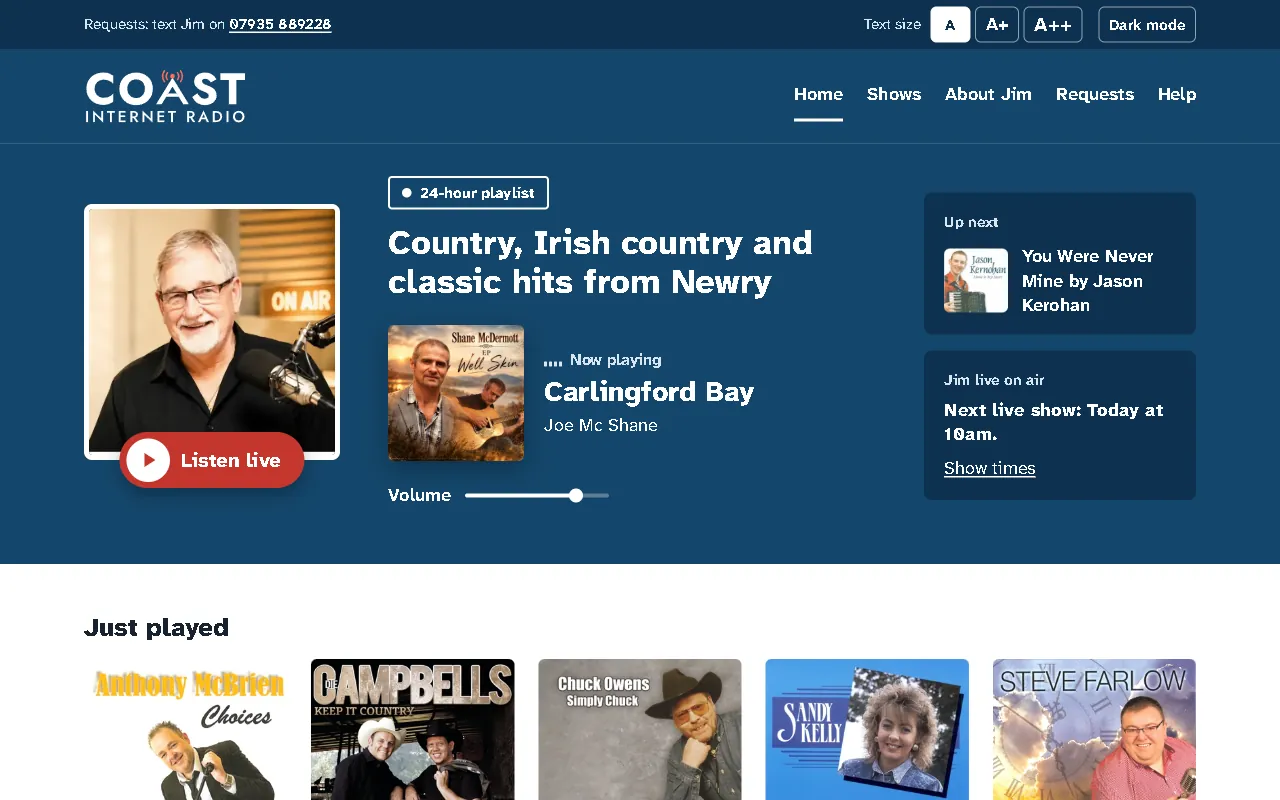
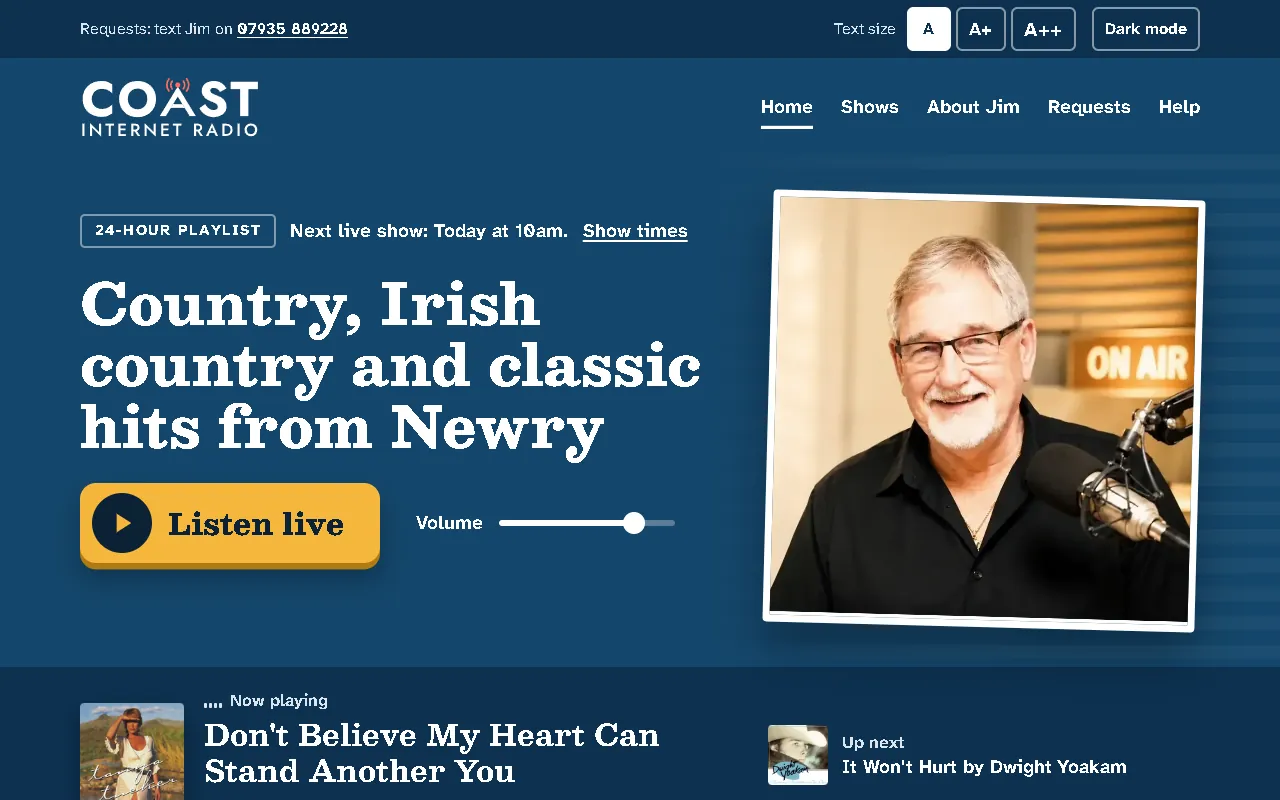
Update the Coast case study for the redesigned site

diff --git a/content/projects/coast-internet-radio.md b/content/projects/coast-internet-radio.md
@@ -9,11 +9,11 @@ links:
   - { label: "Website code", url: "https://github.com/JamieP-205/coast-radio" }
   - { label: "Coast Requests code", url: "https://github.com/JamieP-205/coast-requests" }
 image: "/uploads/projects/coast-home.webp"
-imageAlt: "The Coast Internet Radio homepage, with a Listen live button and the song playing now with its album cover"
+imageAlt: "The Coast Internet Radio homepage: a large Listen live button beside a photo of the presenter at the microphone, with the song playing now and its album cover underneath"
 proof:
   - "Live at coastinternetradio.com, with a request board the presenter uses on air"
   - "Signed webhooks, CSRF tokens and a Content-Security-Policy on the request board"
-  - "24 site tests and 37 pytest tests"
+  - "47 site tests and 37 pytest tests"
 context: "For a radio station in Newry"
 exhibit:
   type: flow
@@ -31,12 +31,15 @@ Coast Internet Radio is a small station in Newry run by a family member, playing
 
 ### The website
 
-- A live player that keeps playing as you move between pages, and shows the song playing now with its album cover.
+- A live player that keeps playing as you move between pages, shows the song playing now with its album cover, and reconnects by itself if the connection drops.
+- Listen live is the biggest thing on the home page, all five pages are always on show on phones, and listeners can make the text bigger or switch to dark mode.
 - The station's stream and track information are only available over HTTP. Two Cloudflare Workers serve them over HTTPS so they play on the secure site.
 - An editor at `/admin/` where the presenter changes the words, photos, colours, home page layout, news and show times himself, with preview, publish and undo.
-- Plain HTML, CSS and JavaScript on Netlify. Sign-in, saving and publishing use Netlify Functions and Blobs, with a hashed password and a signed sign-in cookie. 24 tests run before each deploy.
+- Plain HTML, CSS and JavaScript on Netlify. Sign-in, saving and publishing use Netlify Functions and Blobs, with a hashed password and a signed sign-in cookie. 47 tests run before each deploy, including checks that the page, the editor and the request form still agree.
 
 I built the first version in May 2026 using online tutorials, my class notes and some help from AI tools, and rebuilt it in October 2026 with Claude Code assisting with the code. I worked out with the presenter what he needed, made the design decisions, tested each change on the live site and moved the domain over.
+
+In November 2026 the site was redesigned around the station's own logo and studio photo. Claude Code did the research, the design and the code for that redesign from my brief, and the presenter and I reviewed it before it went live.
 
 ### Coast Requests
 
